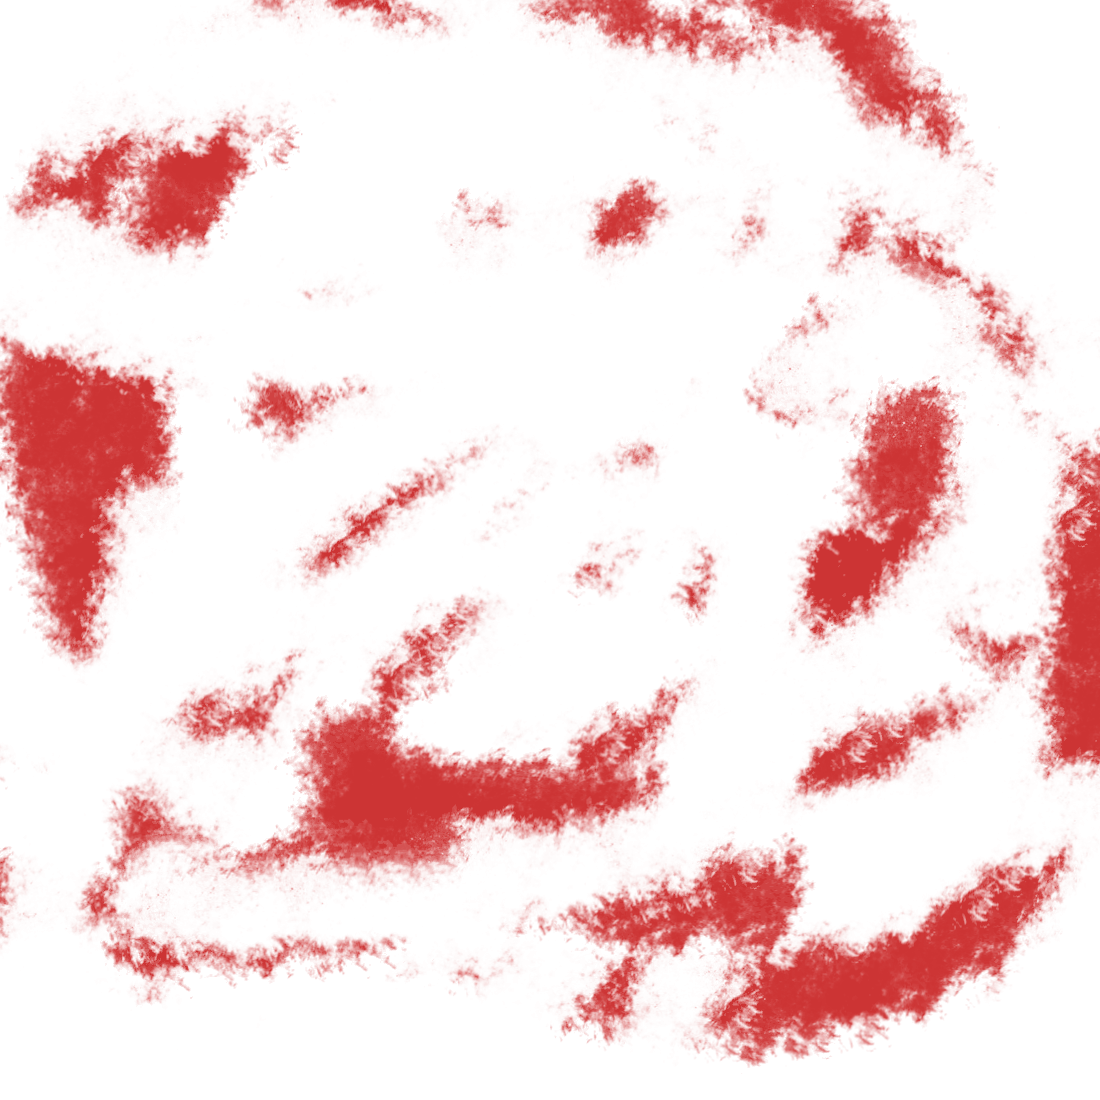
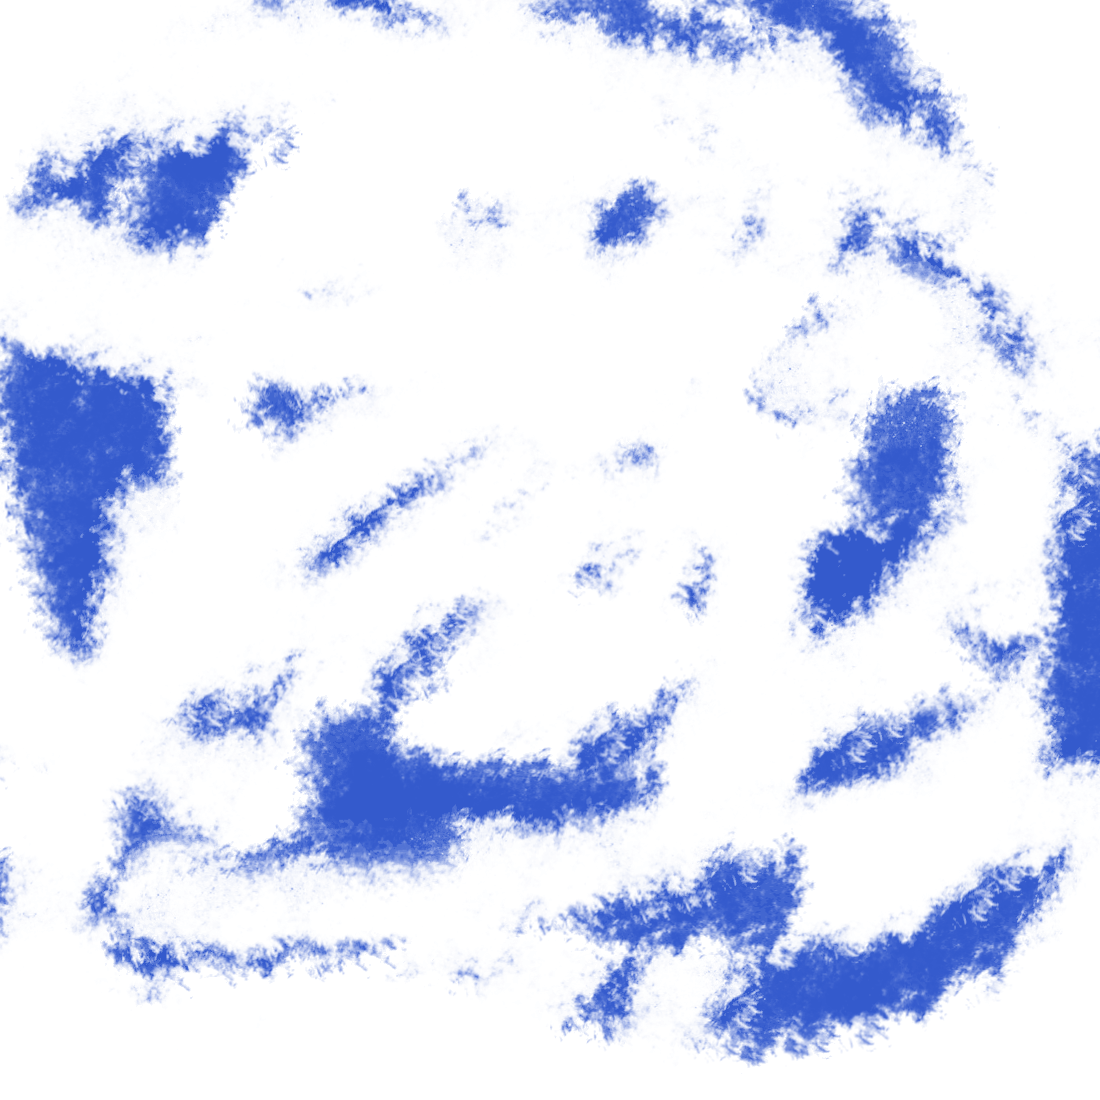
Change clouds hue rotation base

diff --git a/house_renderer.js b/house_renderer.js
@@ -76,7 +76,7 @@ class HouseRenderer {
         fog.style.filter = `brightness(${brightness})`;
 
         sky.style.backgroundColor = hsl;
-        clouds.style.filter = `hue-rotate(${hue}deg) brightness(${brightness}) grayscale(${grayscale}%)`;
+        clouds.style.filter = `hue-rotate(${hue + 128}deg) brightness(${brightness}) grayscale(${grayscale}%)`;
     }
 
     drawStar(context, x, y) {
